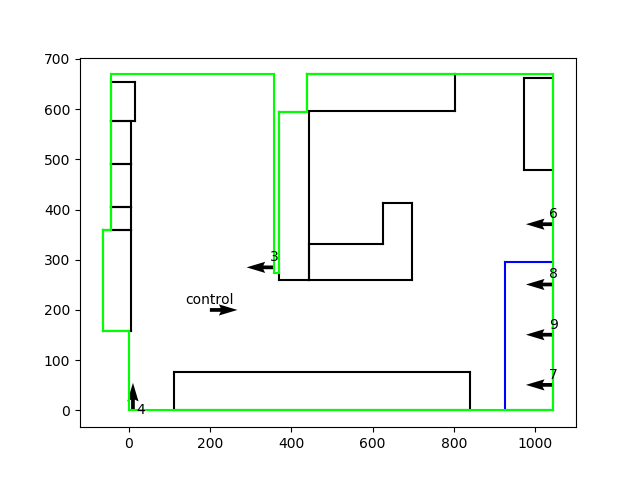
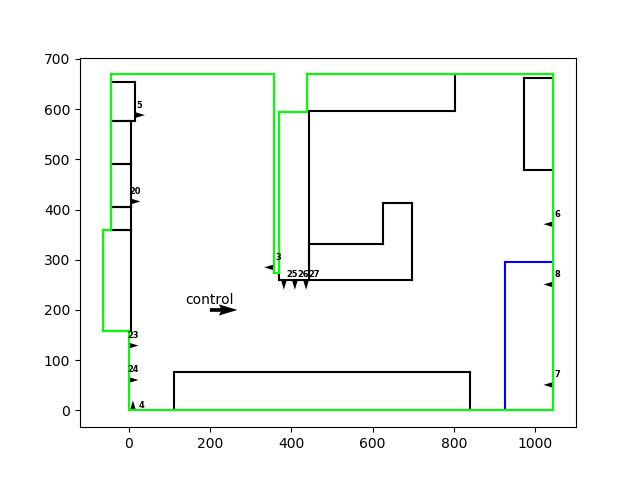
additional tags in map

diff --git a/marthabot/map/mapper.py b/marthabot/map/mapper.py
@@ -138,8 +138,19 @@ class Mapper:
         for tag in self.tags:
             tagid,x,y,z,heading,yaw,pitch,roll = tag
             card = 0 if heading < pi/4 and heading >= -pi/4 else 1 if heading < 3*pi/4 and heading >=pi/4 else 2 if heading >= 3*pi/4 or heading < -3*pi/4 else 3
-            plt.quiver(x,y,np.cos(heading),np.sin(heading))
-            plt.annotate(int(tagid),(x  if card in [0,2] else x + 20 ,y  if card in [1,3] else y + 20),ha='center',va='center')
+            plt.quiver(x,y,
+                       np.cos(heading),
+                       np.sin(heading),
+                       width=0.005,
+                       scale=50,
+                    )
+            plt.annotate(int(tagid),
+                         (x+10  if card in [0,2] else x + 20 ,y + 10  if card in [1,3] else y + 20),
+                         ha='center',
+                         va='center',
+                         size=6,
+                         weight='bold',
+                        )
 
         for pose in poses:
             label,x,y,heading = pose
